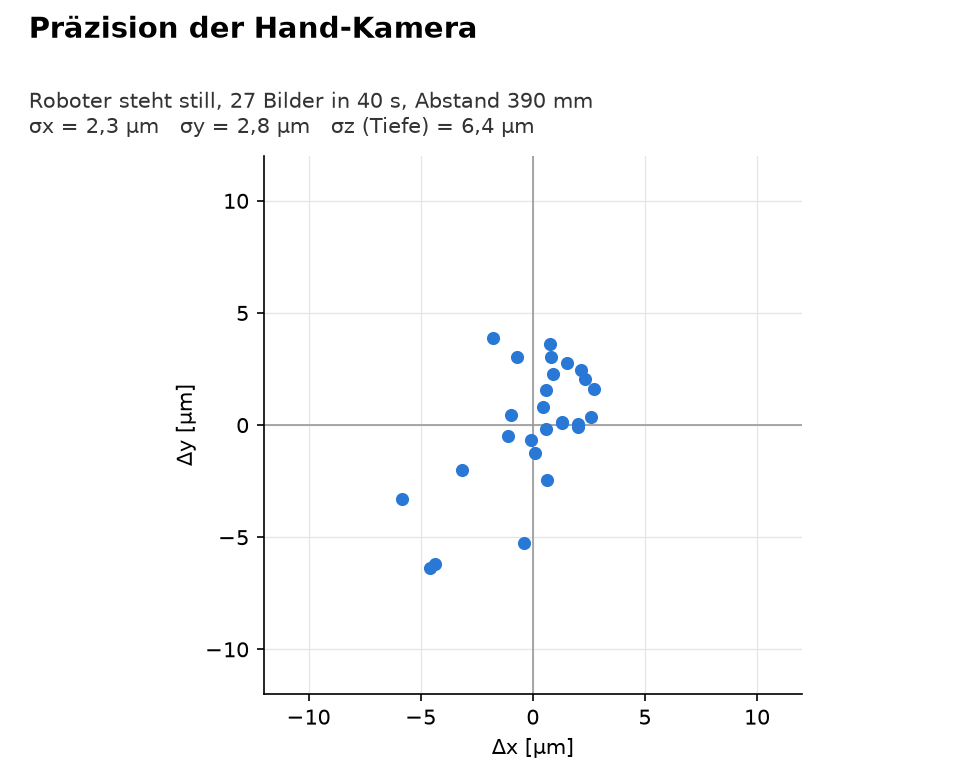
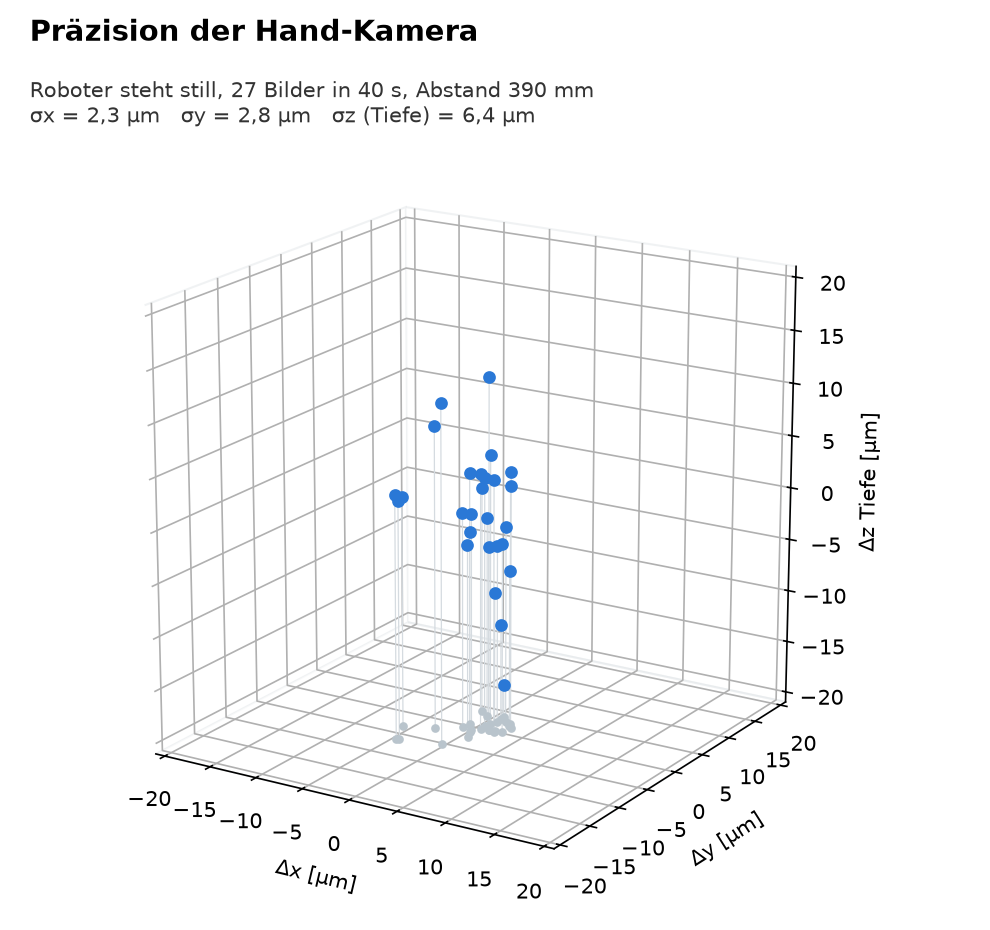
Praezisionsplot der Hand-Kamera als 3D-Darstellung (inkl. Tiefe)

diff --git a/tools/wiederholgenauigkeit/praezision_plot.py b/tools/wiederholgenauigkeit/praezision_plot.py
@@ -1,7 +1,8 @@
 """Schlichter Plot zur Praezision der Hand-Kamera aus der Rauschserie vom 09.11.2026.
 
 Roboter steht still, 27 Bilder des ChArUco-Bretts (Rauschlauf 1). Je Bild PnP mit der
-Pi-Intrinsik; gezeigt wird die Lage der Brettmitte in Kamerakoordinaten relativ zum Mittel.
+Pi-Intrinsik; gezeigt wird die Lage der Brettmitte in Kamerakoordinaten relativ zum Mittel
+(3D, gleicher Massstab auf allen Achsen; z = Tiefe entlang der Blickrichtung).
 Aufruf aus der Repo-Wurzel:
     PYTHONPATH=src python tools/wiederholgenauigkeit/praezision_plot.py [--out doc/auswertung/kamera_praezision.png]
 """
@@ -42,20 +43,26 @@ def main():
     sx, sy, sz = dev.std(0, ddof=1)
     dist_mm = np.linalg.norm(C.mean(0))
 
-    fig, ax = plt.subplots(figsize=(6.4, 5.2), dpi=150)
-    ax.scatter(dev[:, 0], dev[:, 1], s=28, color="#2a78d6", zorder=3)
-    lim = max(12, np.abs(dev[:, :2]).max() * 1.3)
-    ax.set_xlim(-lim, lim); ax.set_ylim(-lim, lim); ax.set_aspect("equal")
-    ax.axhline(0, color="#999", lw=0.8); ax.axvline(0, color="#999", lw=0.8)
-    ax.grid(color="#e2e6e9", lw=0.6)
-    ax.set_xlabel("Δx [µm]"); ax.set_ylabel("Δy [µm]")
-    for s in ("top", "right"):
-        ax.spines[s].set_visible(False)
+    fig = plt.figure(figsize=(6.6, 6.2), dpi=150)
+    ax = fig.add_subplot(projection="3d")
+    # Gleicher Massstab auf allen drei Achsen, damit die groessere Tiefenstreuung sichtbar ist.
+    lim = max(10, np.ceil(np.abs(dev).max() * 1.15))
+    floor = -lim
+    ax.scatter(dev[:, 0], dev[:, 1], np.full(len(dev), floor), s=10, color="#b9c4cc", depthshade=False)
+    for x, y, z in dev:
+        ax.plot([x, x], [y, y], [floor, z], color="#d5dbe0", lw=0.6)
+    ax.scatter(dev[:, 0], dev[:, 1], dev[:, 2], s=26, color="#2a78d6", depthshade=False)
+    ax.set_xlim(-lim, lim); ax.set_ylim(-lim, lim); ax.set_zlim(-lim, lim)
+    ax.set_box_aspect((1, 1, 1))
+    ax.set_xlabel("Δx [µm]"); ax.set_ylabel("Δy [µm]"); ax.set_zlabel("Δz Tiefe [µm]")
+    ax.view_init(elev=18, azim=-58)
+    for pane in (ax.xaxis.pane, ax.yaxis.pane, ax.zaxis.pane):
+        pane.set_facecolor((1, 1, 1, 0)); pane.set_edgecolor("#e2e6e9")
     fig.suptitle("Präzision der Hand-Kamera", fontsize=14, fontweight="bold", x=0.03, ha="left")
     text = (f"Roboter steht still, {len(dev)} Bilder in 40 s, Abstand {dist_mm:.0f} mm\n"
             f"σx = {sx:.1f} µm   σy = {sy:.1f} µm   σz (Tiefe) = {sz:.1f} µm").replace(".", ",")
-    fig.text(0.03, 0.885, text, ha="left", va="top", fontsize=10, color="#333")
-    fig.subplots_adjust(top=0.80, left=0.14, right=0.97, bottom=0.11)
+    fig.text(0.03, 0.915, text, ha="left", va="top", fontsize=10, color="#333")
+    fig.subplots_adjust(top=0.86, left=0.0, right=0.94, bottom=0.02)
     fig.savefig(args.out)
     print(text)
     print("geschrieben:", args.out)
